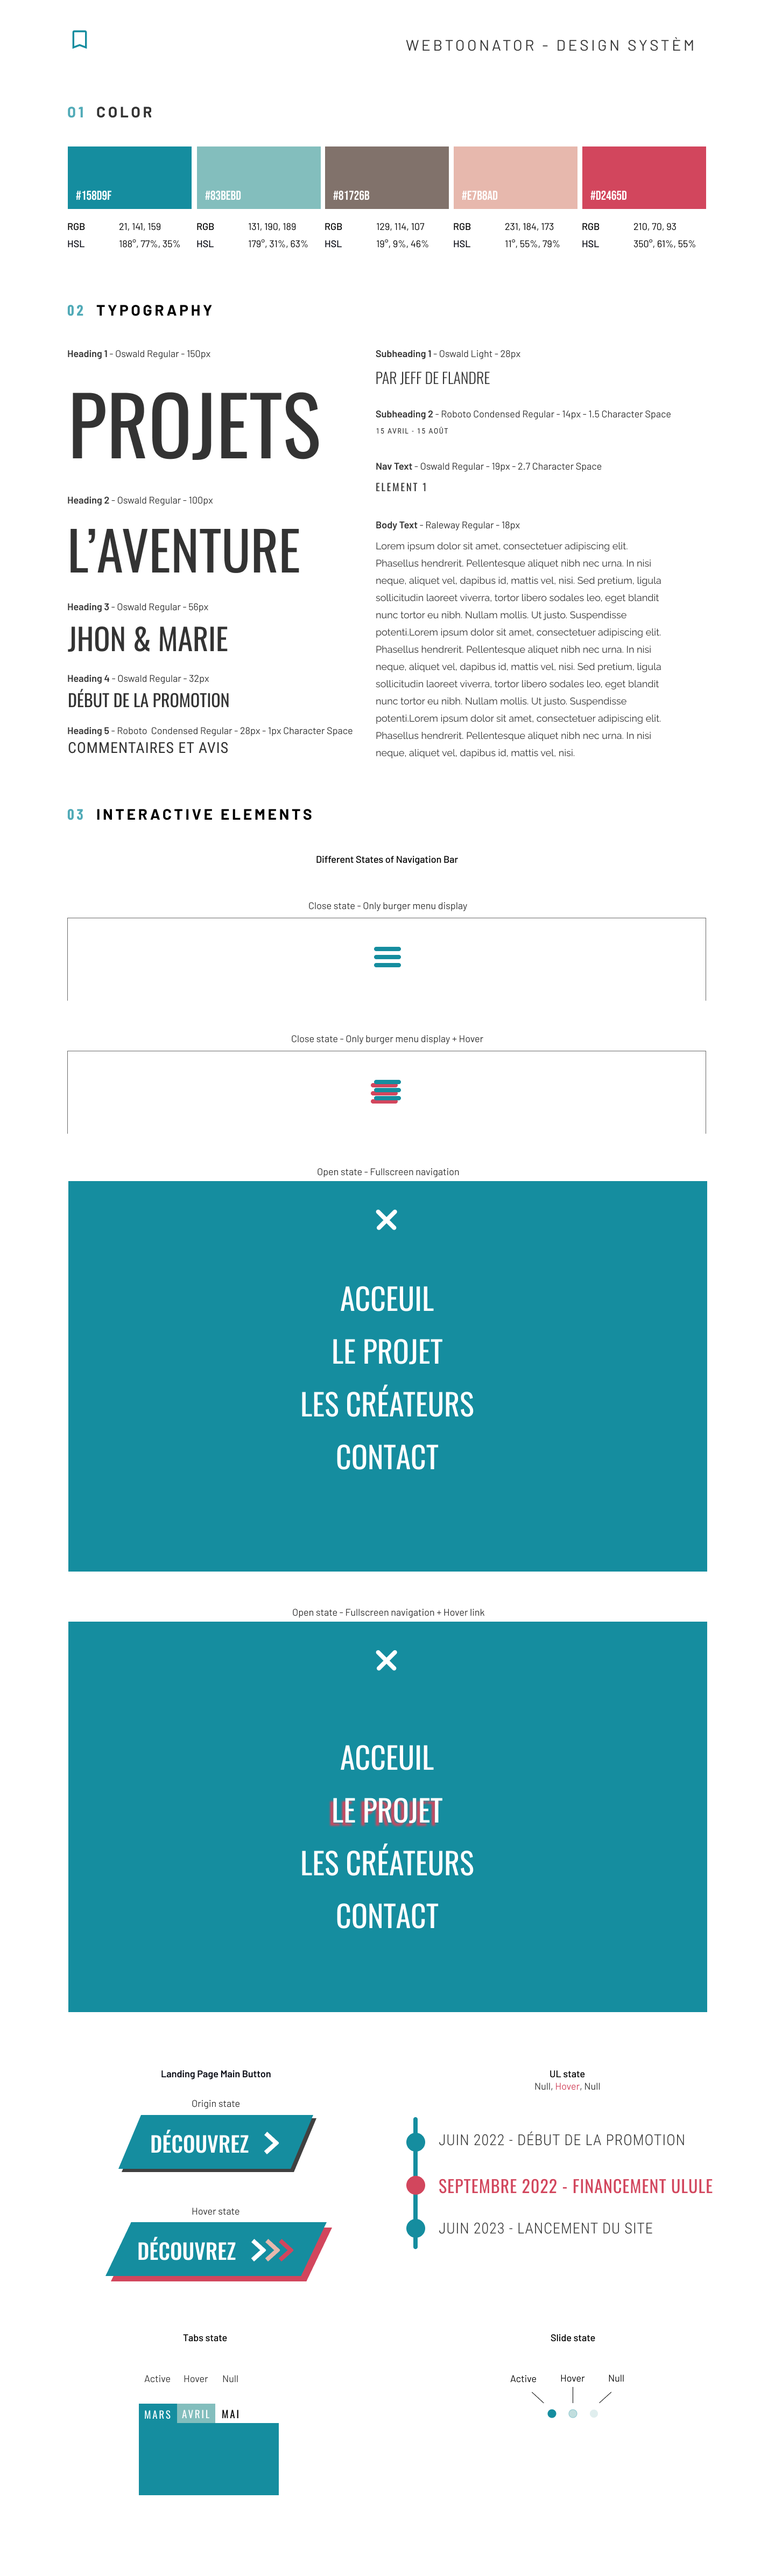
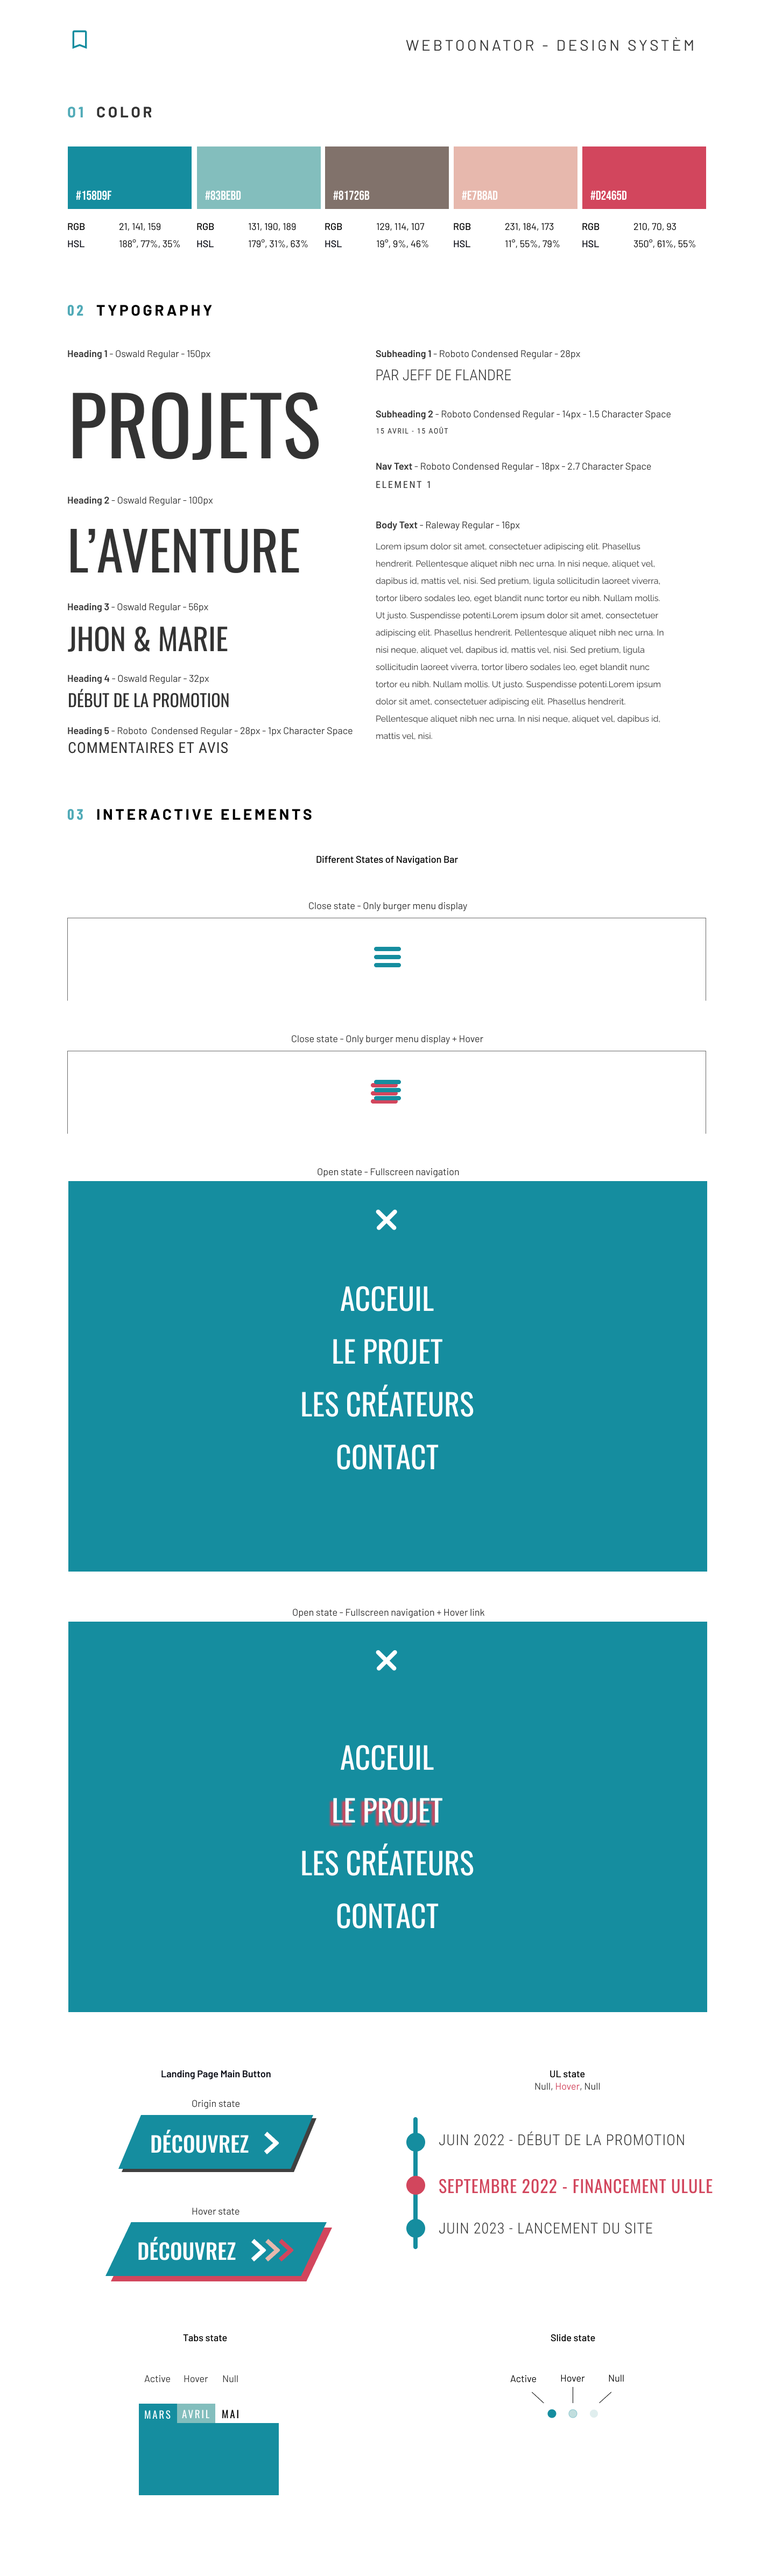
set and coded typography

Changed region(s): [[0.4688, 0.1869, 0.8438, 0.2804], [0.5625, 0.1246, 0.6562, 0.1558]]

diff --git a/design-system.html b/design-system.html
@@ -1,21 +1,26 @@
 <html>
   <head>
+    <!-- CSS -->
     <link rel="stylesheet" href="index.css" />
+
+    <!-- Google fonts -->
     <link rel="preconnect" href="https://fonts.googleapis.com" />
     <link rel="preconnect" href="https://fonts.gstatic.com" crossorigin />
     <link
       href="https://fonts.googleapis.com/css2?family=Oswald:wght@300;400&family=Raleway&family=Roboto+Condensed&display=swap"
       rel="stylesheet"
     />
+
     <title>Design system</title>
   </head>
   <body>
     <div class="container">
-      <h1>Design system</h1>
+      <h1 class="ff-primary uppercase fw-semi_bold">Design system</h1>
         <br />
-      <section id="colors">
-        <h2><span>01</span> COLORS</h2>
-
+        <br />
+      <section id="colors" class="ff-primary">
+        <h2 class="uppercase"><span class="fw-semi_bold text-strong_blue">01</span> Colors</h2>
+        <br />
         <div class="flex">
           <div id="strong_blue">
             <div
@@ -28,8 +33,8 @@
             >
               #158D9F
             </div>
-            <p><span>RGB</span> 21, 141, 159</p>
-            <p><span>HSL</span> 188°, 77%, 35%</p>
+            <p><span class="fw-semi_bold">RGB</span> 21, 141, 159</p>
+            <p><span class="fw-semi_bold">HSL</span> 188°, 77%, 35%</p>
           </div>
           <div id="light_blue">
             <div
@@ -42,8 +47,8 @@
             >
               #83BEBD
             </div>
-            <p><span>RGB</span> 131, 190, 189</p>
-            <p><span>HSL</span> 179°, 31%, 63%</p>
+            <p><span class="fw-semi_bold">RGB</span> 131, 190, 189</p>
+            <p><span class="fw-semi_bold">HSL</span> 179°, 31%, 63%</p>
           </div>
           <div id="brown">
             <div
@@ -56,8 +61,8 @@
             >
               #81726B
             </div>
-            <p><span>RGB</span> 129, 114, 107</p>
-            <p><span>HSL</span> 19°, 9%, 46%</p>
+            <p><span class="fw-semi_bold">RGB</span> 129, 114, 107</p>
+            <p><span class="fw-semi_bold">HSL</span> 19°, 9%, 46%</p>
           </div>
           <div id="salmon">
             <div
@@ -70,8 +75,8 @@
             >
               #E7B8AD
             </div>
-            <p><span>RGB</span> 231, 184, 173</p>
-            <p><span>HSL</span> 11°, 55%, 79%</p>
+            <p><span class="fw-semi_bold">RGB</span> 231, 184, 173</p>
+            <p><span class="fw-semi_bold">HSL</span> 11°, 55%, 79%</p>
           </div>
           <div id="red">
             <div
@@ -84,10 +89,65 @@
             >
               #D2465D
             </div>
-            <p><span>RGB</span> 210, 70, 93</p>
-            <p><span>HSL</span> 350°, 61%, 55%</p>
+            <p><span class="fw-semi_bold">RGB</span> 210, 70, 93</p>
+            <p><span class="fw-semi_bold">HSL</span> 350°, 61%, 55%</p>
           </div>
       </section>
+
+      <section id="typography" style="margin: 4rem 0;" class="ff-primary">
+        <h2 class="uppercase"><span class="fw-semi_bold text-strong_blue">02</span> Typography</h2>
+        <br />
+        <div class="flex">
+            <div style="flex-basis: 100%;">
+                <div>
+                    <p><span class="fw-semi_bold">Heading 1</span> - Oswald Regular - 150px</p>
+                    <p class="uppercase fs-900">Projets</p>
+                </div>
+                <br />
+                <div>
+                    <p><span class="fw-semi_bold">Heading 2</span> - Oswald Regular - 100px</p>
+                    <p class="uppercase fs-800">L'aventure</p>
+                </div>
+                <br />
+                <div>
+                    <p><span class="fw-semi_bold">Heading 3</span> - Oswald Regular - 56px</p>
+                    <p class="uppercase fs-700">Jhon & Marie</p>
+                </div>
+                <br />
+                <div>
+                    <p><span class="fw-semi_bold">Heading 4</span> - Oswald Regular - 32px</p>
+                    <p class="uppercase fs-600">Début de la promotion</p>
+                </div>
+                <br />
+                <div>
+                    <p><span class="fw-semi_bold">Heading 5</span> - Roboto Condensed Regular - 28px - 1px Character Space</p>
+                    <p class="uppercase ff-sans_cond fs-500 letter-spacing-3">Commentaires et avis</p>
+                </div>
+            </div>
+            <div style="flex-basis: 100%;">
+                <div>
+                    <p><span class="fw-semi_bold">Subheading 1</span> - Roboto Condensed Regular - 28px</p>
+                    <p class="uppercase ff-sans_cond fs-400">Par Jeff de Flandre</p>
+                </div>
+                <br />
+                <div>
+                    <p><span class="fw-semi_bold">Subheading 2</span> - Roboto Condensed Regular - 14px - 1.5 Character Space</p>
+                    <p class="uppercase ff-sans_cond fs-200 letter-spacing-2">15 avril - 15 Août</p>
+                </div>
+                <br />
+                <div>
+                    <p><span class="fw-semi_bold">Nav Text</span> - Roboto Condensed Regular -  18px - 2.7 Character Space</p>
+                    <p class="uppercase ff-sans_cond fs-400 letter-spacing-3">élément 1</p>
+                </div>
+                <br />
+                <div>
+                    <p><span class="fw-semi_bold">Body Text</span> - Raleway Regular - 16px</p>
+                    <p class="ff-secondary fs-300">Lorem ipsum dolor sit amet, consectetuer adipiscing elit. Phasellus hendrerit. Pellentesque aliquet nibh nec urna. In nisi neque, aliquet vel, dapibus id, mattis vel, nisi. Sed pretium, ligula sollicitudin laoreet viverra, tortor libero sodales leo, eget blandit nunc tortor eu nibh. Nullam mollis. Ut justo. Suspendisse potenti.Lorem ipsum dolor sit amet, consectetuer adipiscing elit. Phasellus hendrerit. Pellentesque aliquet nibh nec urna. In nisi neque, aliquet vel, dapibus id, mattis vel, nisi. Sed pretium, ligula sollicitudin laoreet viverra, tortor libero sodales leo, eget blandit nunc tortor eu nibh. Nullam mollis. Ut justo. Suspendisse potenti.Lorem ipsum dolor sit amet, consectetuer adipiscing elit. Phasellus hendrerit. Pellentesque aliquet nibh nec urna. In nisi neque, aliquet vel, dapibus id, mattis vel, nisi. </p>
+                </div>
+            </div>
+        </div>
+
+    </section>
     </div>
 
     <script src="index.pack.js"></script>

diff --git a/index.css b/index.css
@@ -3,6 +3,7 @@
 /* ---------------------------- */
 
 :root {
+  /* Colors */
   --clr-strong_blue: 188 77% 35%;
   --clr-light_blue: 179 31% 63%;
   --clr-brown: 19 9% 46%;
@@ -10,6 +11,21 @@
   --clr-red: 350 61% 55%;
   --clr-black: 0 0% 0%;
   --clr-white: 0 0% 100%;
+
+  /* Font-sizes */
+  --fs-900: 9.375rem;
+  --fs-800: 6.25rem;
+  --fs-700: 3.5rem;
+  --fs-600: 2rem;
+  --fs-500: 1.75rem;
+  --fs-400: 1.125rem;
+  --fs-300: 1rem;
+  --fs-200: 0.875rem;
+
+  /* Font-families */
+  --ff-primary: 'Oswald', sans-serif;
+  --ff-secondary: 'Raleway', sans-serif;
+  --ff-sans-cond: 'Roboto Condensed', sans-serif;
 }
 
 /* ---------------------------- */
@@ -26,7 +42,6 @@
 }
 
 /* Reset margins */
-
 body,
 h1,
 h2,
@@ -39,12 +54,23 @@ picture {
   margin: 0;
 }
 
-/* Set up body */
+/* Reset font-weight */
+body,
+h1,
+h2,
+h3,
+h4,
+h5,
+p {
+  font-weight: 400;
+}
 
+/* Set up body */
 body {
+  font-family: var(--ff-secondary);
+  font-size: var(--fs-400);
   line-height: 1.5;
   min-width: 100vh;
-  font-family: 'Oswald', sans-serif;
 }
 
 /* Make images easier to work with */
@@ -161,4 +187,76 @@ select {
   color: hsl(var(--clr-red));
 }
 
-/* color utility class */
+/* --- Typography --- */
+
+/* Font-family */
+.ff-primary {
+  font-family: var(--ff-primary);
+}
+.ff-secondary {
+  font-family: var(--ff-secondary);
+}
+.ff-sans-cond {
+  font-family: var(--ff-sans-cond);
+}
+
+/* Letter-spacing */
+.letter-spacing-1 {
+  letter-spacing: 2.7px;
+}
+.letter-spacing-2 {
+  letter-spacing: 1.5px;
+}
+.letter-spacing-3 {
+  letter-spacing: 1px;
+}
+
+/* Uppercase */
+.uppercase {
+  text-transform: uppercase;
+}
+
+/* Font-size */
+.fs-900 {
+  font-size: var(--fs-900);
+}
+.fs-800 {
+  font-size: var(--fs-800);
+}
+.fs-700 {
+  font-size: var(--fs-700);
+}
+.fs-600 {
+  font-size: var(--fs-600);
+}
+.fs-500 {
+  font-size: var(--fs-500);
+}
+.fs-400 {
+  font-size: var(--fs-400);
+}
+.fs-300 {
+  font-size: var(--fs-300);
+}
+.fs-200 {
+  font-size: var(--fs-200);
+}
+
+/* Font-weight */
+.fw-semi_bold {
+  font-weight: 600;
+}
+.fw-regular {
+  font-weight: 400;
+}
+.fw-light {
+  font-weight: 300;
+}
+
+/* Line-height */
+.fs-900,
+.fs-800,
+.fs-700,
+.fs-600 {
+  line-height: 1.1;
+}
